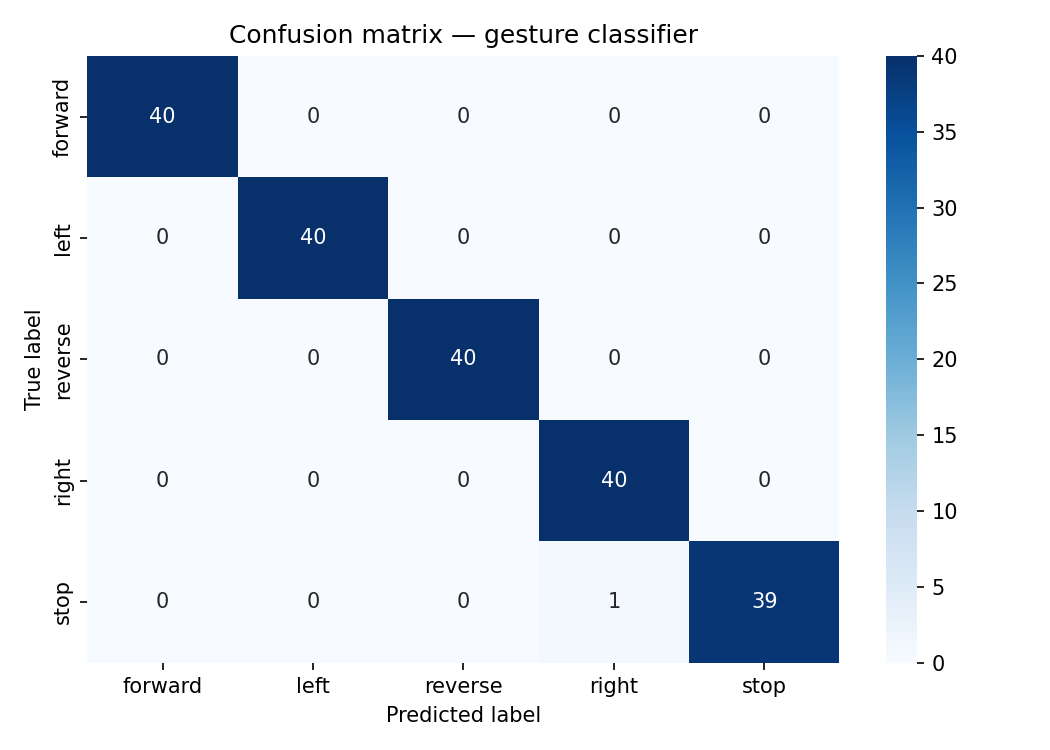
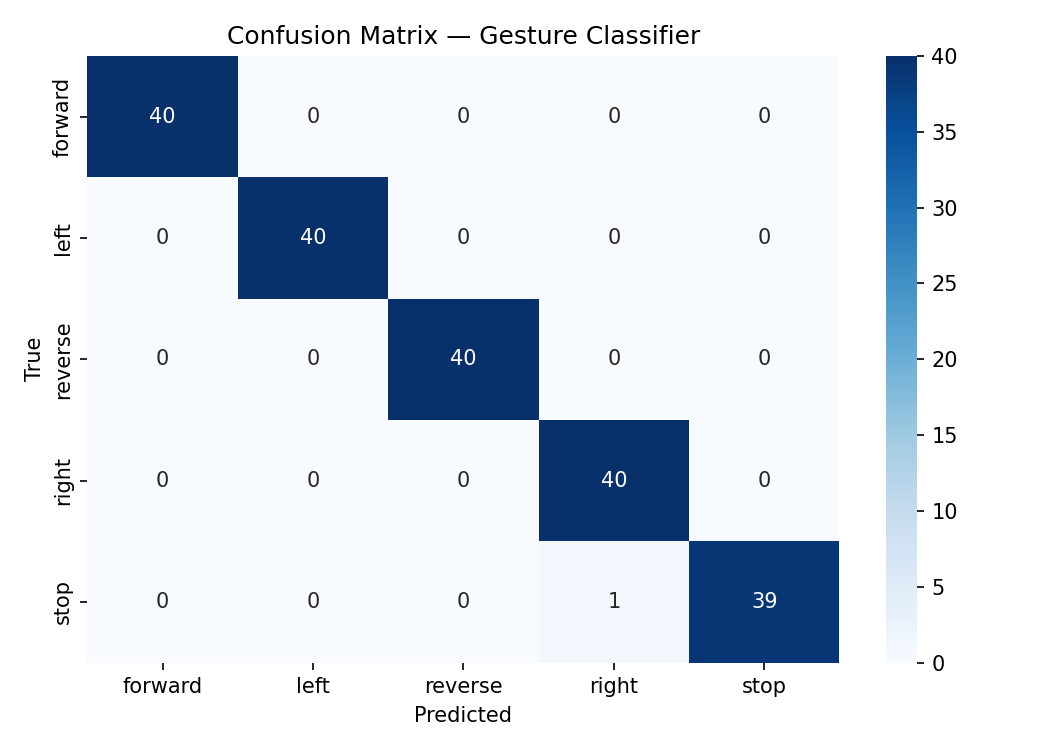
retrained model

diff --git a/src/config.py b/src/config.py
@@ -21,7 +21,7 @@ CM_IMAGE     = os.path.join(OUTPUT_DIR, "confusion_matrix.png")
 
 # ── Gestures ───────────────────────────────────────────────────
 GESTURES            = ["forward", "reverse", "left", "right", "stop"]
-SAMPLES_PER_GESTURE = 200
+SAMPLES_PER_GESTURE = 100
 
 # ── MediaPipe ──────────────────────────────────────────────────
 NUM_LANDMARKS           = 21

diff --git a/src/pipeline.py b/src/pipeline.py
@@ -47,8 +47,8 @@ from config import extract_features   # shared with app.py
 # Keep top KEEP_PER_GESTURE per gesture. Delete the rest.
 # ═══════════════════════════════════════════════════════════════
 
-KEEP_PER_GESTURE = 3500
-MIN_DETECT_CONF  = 0.5
+KEEP_PER_GESTURE = 2000
+MIN_DETECT_CONF  = 0.6
 SUPPORTED_EXT    = {'.jpg', '.jpeg', '.png', '.bmp', '.webp'}
 
 # Scoring weights — must sum to 1.0
